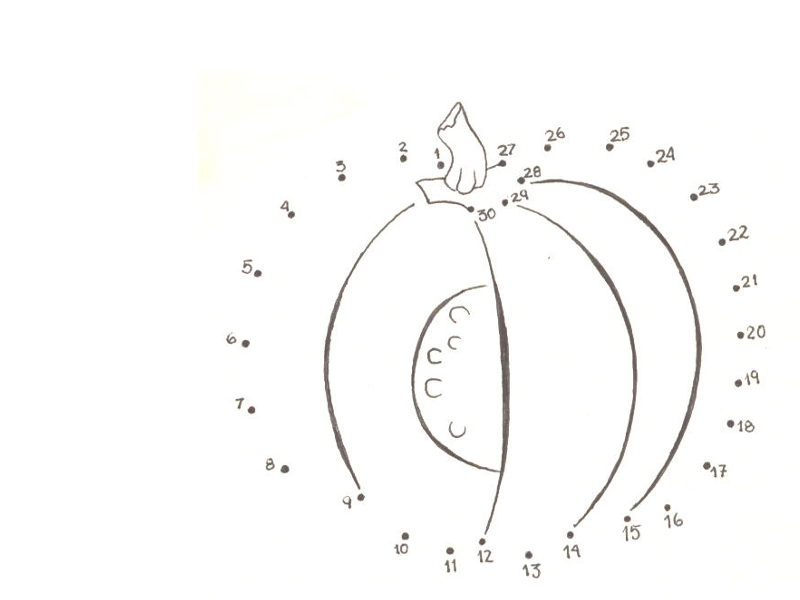
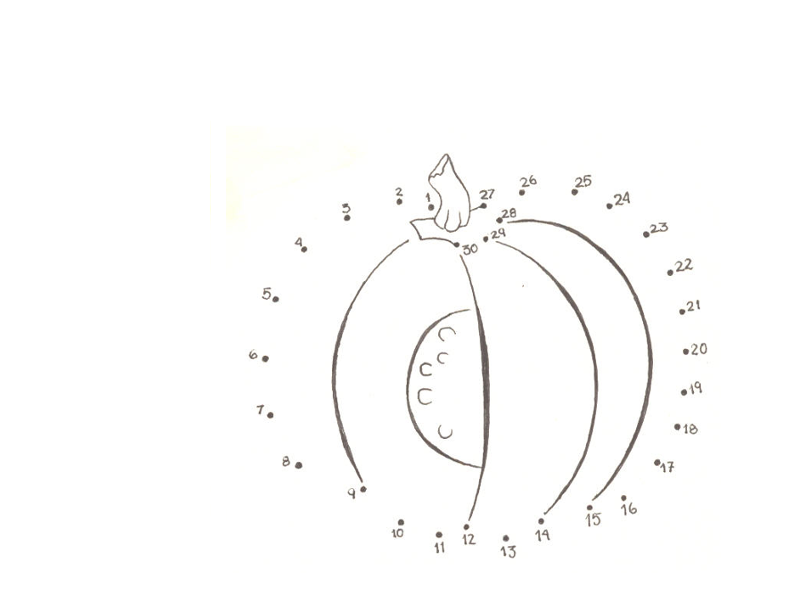
Se arregla la actividad de completar
* Se reduce el tamaño de la imagen
* Se cambian las posiciones de los puntos
* Se arregla la condicion de completacion

diff --git a/src/riddle.py b/src/riddle.py
@@ -244,36 +244,36 @@ class Riddle2(Activity):
         self.lines = []
 
         points = (
-                (440, 165),
-                (403, 158),
-                (341, 178),
-                (290, 214),
-                (257, 273),
-                (245, 343),
-                (252, 410),
-                (284, 469),
-                (360, 496),
-                (405, 536),
-                (449, 551),
-                (482, 541),
-                (528, 555),
-                (570, 535),
-                (626, 519),
-                (667, 507),
-                (706, 466),
-                (730, 495),
-                (737, 455),
-                (740, 406),
-                (736, 360),
-                (721, 315),
-                (693, 270),
-                (650, 237),
-                (609, 220),
-                (547, 221),
-                (502, 237),
-                (521, 253),
-                (505, 275),
-                (470, 282),
+                (431, 207), #1
+                (399, 201), #2
+                (347, 217), #3
+                (304, 249), #4
+                (275, 299), #5
+                (265, 358), #6
+                (270, 415), #7
+                (298, 465), #8
+                (363, 489), #9
+                (400, 522), #10
+                (438, 534), #11
+                (466, 527), #12
+                (505, 538), #13
+                (541, 521), #14
+                (589, 508), #15
+                (624, 497), #16
+                (656, 462), #17
+                (677, 426), #18
+                (684, 392), #19
+                (686, 351), #20
+                (682, 312), #21
+                (669, 273), #22
+                (646, 234), #23
+                (609, 206), #24
+                (574, 192), #25
+                (522, 192), #26
+                (483, 205), #27
+                (499, 220), #28
+                (485, 239), #29
+                (456, 244), #30
             )
         size = (8, 8)
         self.points = []
@@ -346,7 +346,7 @@ class Riddle2(Activity):
 
                 self.screen.blit(self.background, (0, 0))
 
-        if len(self.lines) == 30:
+        if len(self.lines) == 29:
             self.finished_ = True
             self.sprites.add(Check(zoom=2))
             self.pointer.kill()
